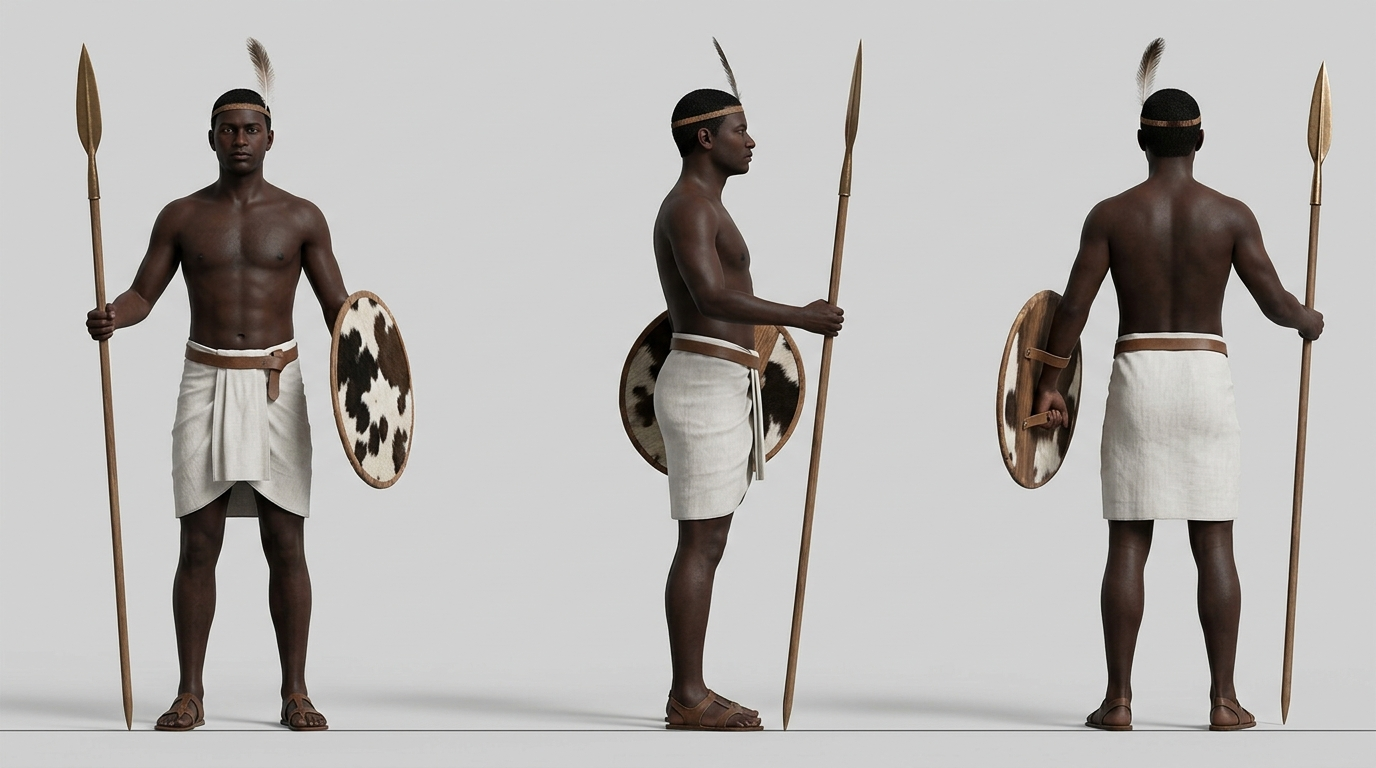
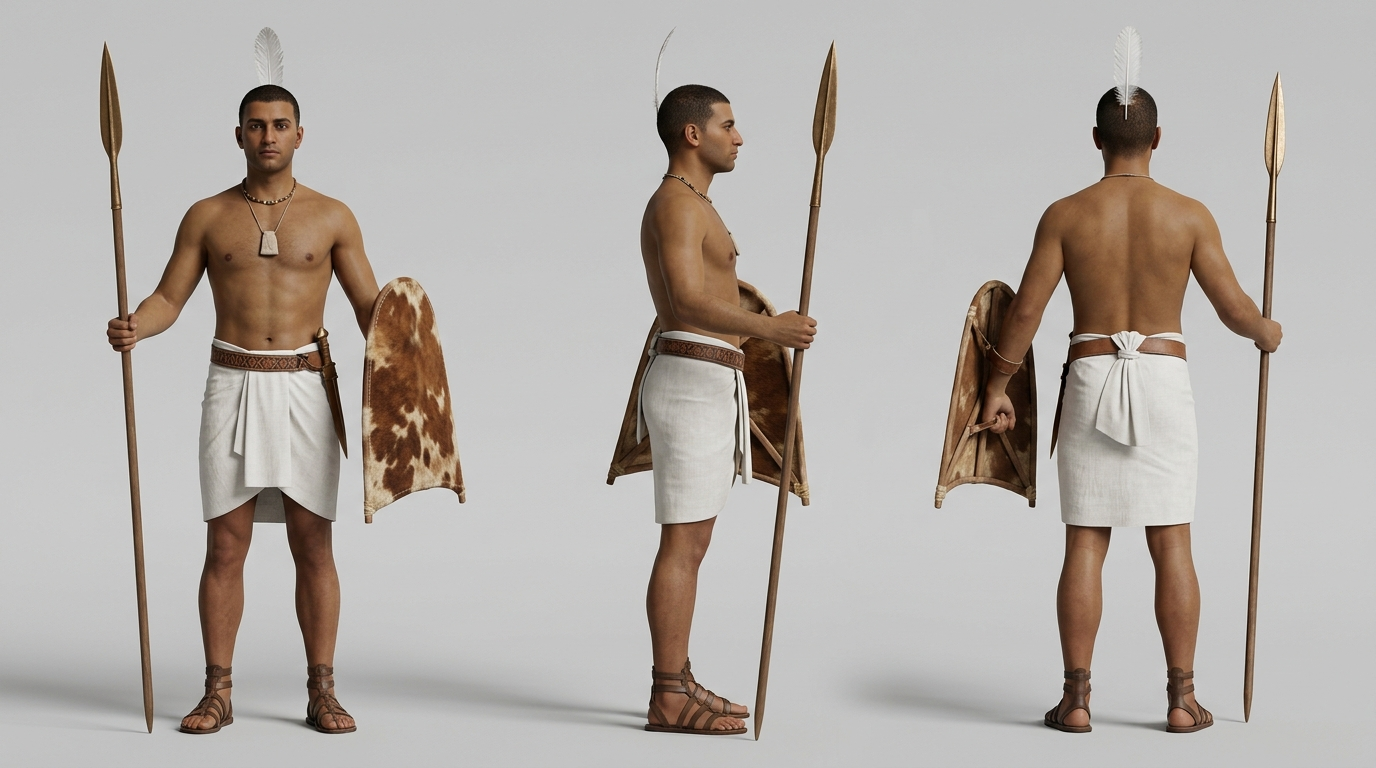
Give the Medjay an olive-brown complexion
The Medjay's first tier is now a man of Arab appearance with medium
olive-brown skin, as asked, rather than of Nubian origin; the second
and third tiers were made again from the new first tier so the line
keeps one man.

Claude-Session: https://claude.ai/code/session_014VBYXxiG2Wapix7xffbVix

diff --git a/tools/refs/roster.py b/tools/refs/roster.py
@@ -133,9 +133,9 @@ ROSTER = [
 
     # ── Kemet ─────────────────────────────────────────────────────────────────
     dict(id='medjay-1', faction='egypt', kind='figure', name='Medjay', subject=(
-        'A Medjay desert scout and policeman of Nubian origin, c. 1300 BC: dark skin, short cropped hair with an '
-        'ostrich feather, a white linen kilt with a leather belt, sandals; a spear about 2 m long with a bronze leaf '
-        'blade and a small cowhide shield.')),
+        'A Medjay desert scout and policeman, c. 1300 BC: a man of Arab appearance with medium olive-brown skin, short '
+        'cropped dark hair with an ostrich feather, a white linen kilt with a leather belt, sandals; a spear about 2 m '
+        'long with a bronze leaf blade and a small cowhide shield.')),
     dict(id='medjay-2', faction='egypt', kind='figure', name='Veteran Medjay', subject=(
         'A veteran Medjay: a leather corselet sewn with bronze scales over the kilt, a cowhide shield with a rounded '
         'top, a bronze khopesh at the belt, and the spear.')),
